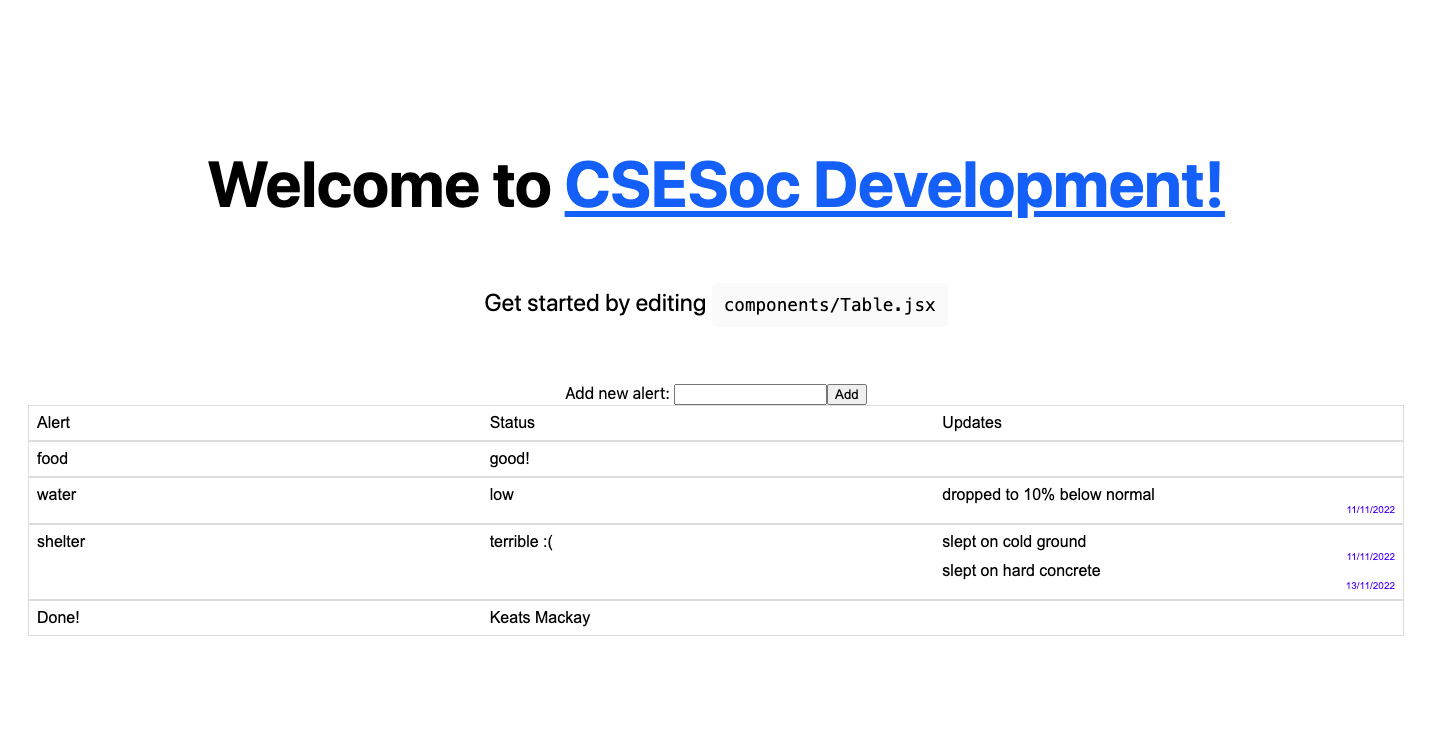
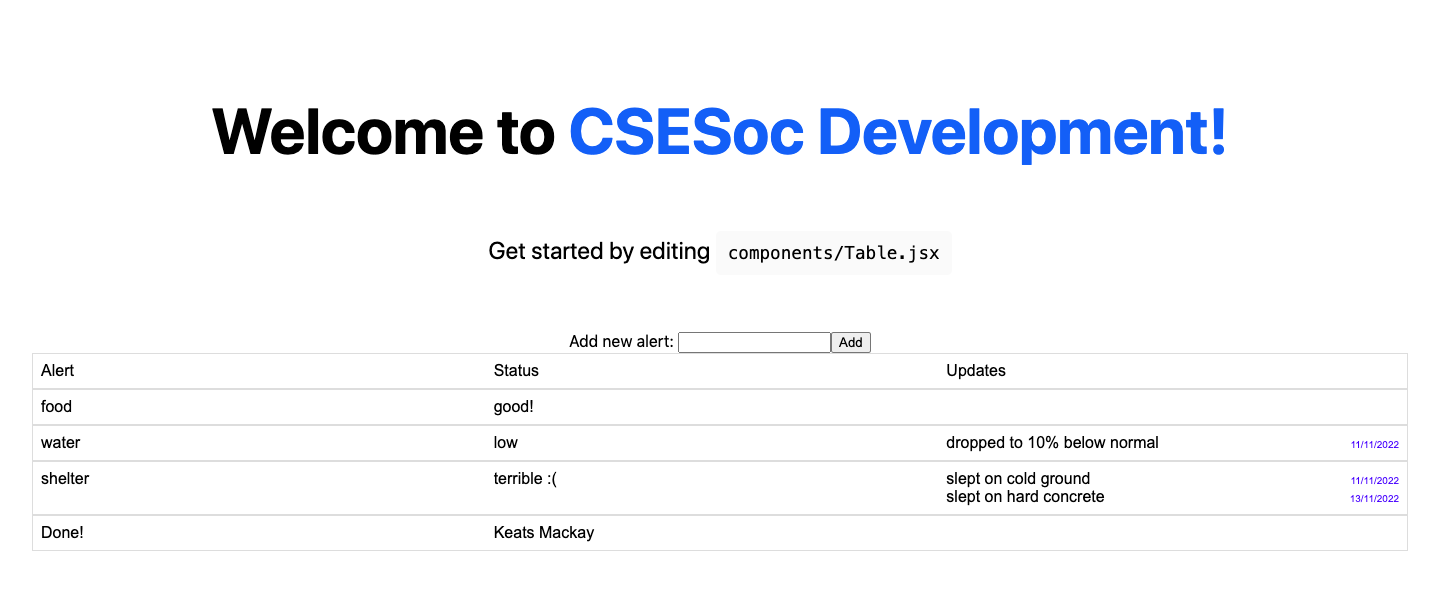
Improved submission and fixed a little bit of style

Changed region(s): [[0.0, 0.4975, 0.9805, 0.9018], [0.1226, 0.1555, 0.8579, 0.311], [0.337, 0.3732, 0.6741, 0.4354]]

diff --git a/q1-frontend/components/Table/Table.tsx b/q1-frontend/components/Table/Table.tsx
@@ -68,12 +68,14 @@ export default function Table() {
             </div>
             <div className={styles.item}>
               {content.updates.map(object => {
-                  return <div className={styles.item}>
-                    {object.update}
-                    <div className={styles.date}>
-                    {object.date}
+                  return (
+                    <div className={styles.update}>
+                      {object.update}
+                      <div className={styles.date}>
+                      {object.date}
+                      </div>
                     </div>
-                    </div>;
+                  )
               })}
             </div>
           </div>

diff --git a/q1-frontend/components/Table/Table.module.css b/q1-frontend/components/Table/Table.module.css
@@ -19,8 +19,15 @@
     flex-direction: column;
 }
 
+.update {
+    display: flex;
+    flex: 1 1 0px;
+    flex-direction: row;
+    justify-content: space-between;
+    align-items: baseline;
+}
+
 .date {
     color: blue;
     font-size: 10px;
-    text-align: right;
 }
